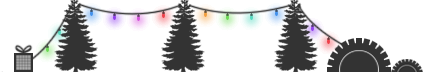
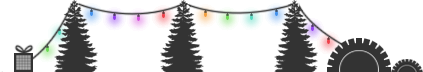
Merry Christmas

diff --git a/apk-icon-editor/index.html b/apk-icon-editor/index.html
@@ -47,15 +47,17 @@
 			</div>
 
 			<div class="jumbotron" style="margin-bottom: 0" id="home">
-				<div id="header" class="container">
-					<h1>APK Icon Editor</h1>
-					<p>Edit and replace APK resources, easily and quickly.<br>Free. Open source. Written in C++ / Qt.</p>
-					<p>
-						<a href="download/" class="btn btn-success btn-lg" role="button">Download</a>
-						<a href="#description" class="btn btn-primary btn-lg" role="button">Read more &raquo;</a>
-					</p>
+				<div class="container">
+					<div class="row" id="header">
+						<h1>APK Icon Editor</h1>
+						<p>Edit and replace APK resources, easily and quickly.<br>Free. Open source. Written in C++ / Qt.</p>
+						<p>
+							<a href="download/" class="btn btn-success btn-lg" role="button">Download</a>
+							<a href="#description" class="btn btn-primary btn-lg" role="button">Read more &raquo;</a>
+						</p>
+					</div>
+					<div class="row" id="gears"></div>
 				</div>
-				<div class="container" id="gears"></div>
 			</div>
 
 			<div class="alert alert-success" role="alert" style="margin-bottom: 8px">

diff --git a/apk-icon-editor/css/override.css b/apk-icon-editor/css/override.css
@@ -46,6 +46,7 @@ h1, h2{
 }
 
 #gears {
+	margin: 0 auto;
 	width: 423px;
 	height: 72px;
 	background: url(../img/gears-header-xmas.png) no-repeat bottom;
